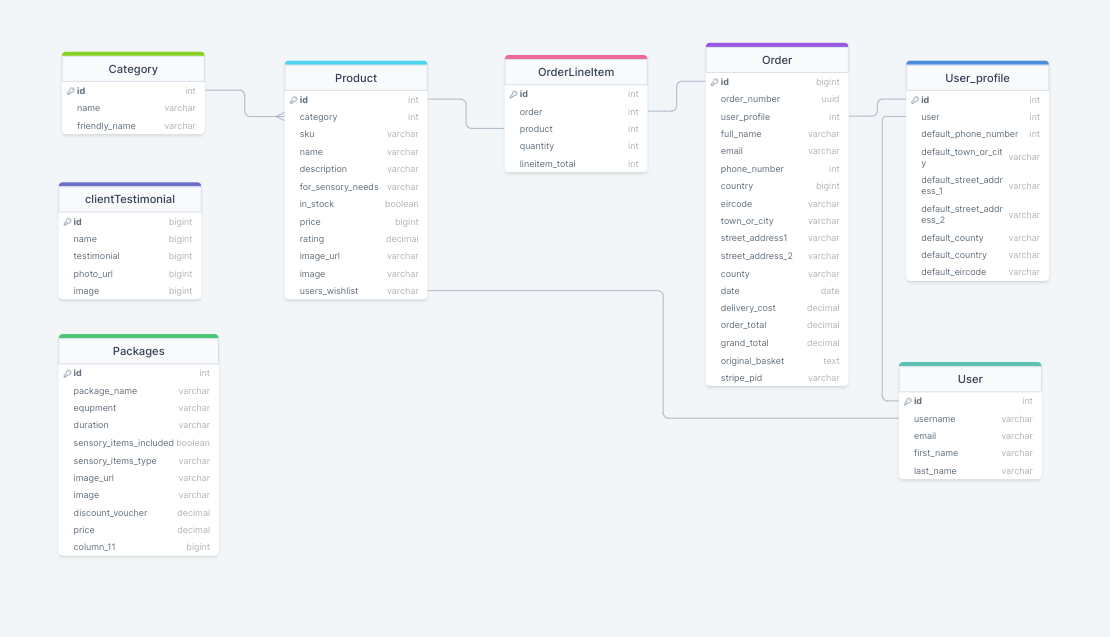
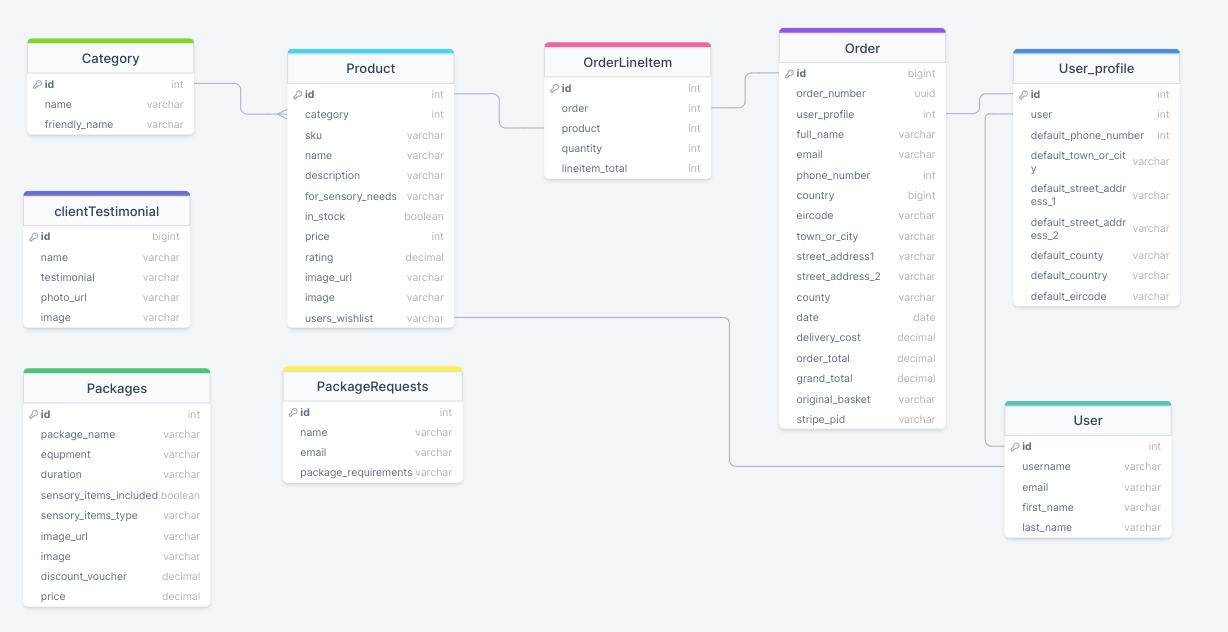
fix: Add superuser if condition to add product button in products template

diff --git a/profiles/templates/profiles/profile.html b/profiles/templates/profiles/profile.html
@@ -15,7 +15,7 @@
                 <h1><i class="fa-solid fa-user"></i></h1>
                 <h2>My Profile</h2>
                 
-                <p class="yello"> Username: {{ user.username }}</p> 
+                <p> Username: {{ user.username }}</p> 
                 <hr class="section-rule">
             </div>
             

diff --git a/products/templates/products/products.html b/products/templates/products/products.html
@@ -183,10 +183,11 @@
         {% endif %}
     </div>
 </div>
-
+{% if request.user.is_superuser %}
 <div class="col-12 text-center my-3">
     <a class="sensical-button" href="{% url 'add_product' %}"><i class="fa-solid fa-circle-plus"></i> Add Product</a>
 </div>
+{% endif %}
 {% endblock content %}
 
 {% block postloadjs %}

diff --git a/hire/urls.py b/hire/urls.py
@@ -2,5 +2,5 @@ from django.urls import path
 from . import views
 
 urlpatterns = [
-    path('hire', views.hire, name='hire')
+    path('', views.hire, name='hire')
 ]

diff --git a/docs/AGILE.md b/docs/AGILE.md
@@ -405,9 +405,11 @@ The final Sprint of the Project cleared the project management board of outstand
 
 * [Bug! Cache error preventing page load if store owner deletes item and an instance is in the basket.](https://github.com/davidcalikes/sensical.ie/issues/46)
 
-* [Start a Django app called 'packages' and add to installed apps in settings](https://github.com/davidcalikes/sensical.ie/issues/54)
+* [Start a Django app called 'packages' and add to installed apps in settings.](https://github.com/davidcalikes/sensical.ie/issues/54)
 
 * [User Story: Create MVC for Packages app, wire up URLS and add form functionality.](https://github.com/davidcalikes/sensical.ie/issues/55)
+
+* [User Story: Create MVC to read/add/delete Custom Package Requests, wire up URLS and add form functionality.](https://github.com/davidcalikes/sensical.ie/issues/56)
 
 <br>
 

diff --git a/docs/README.md b/docs/README.md
@@ -304,6 +304,8 @@ holistic therapies.
 
 * As a Hiring Customer User, I want to access information about the 'Mobile Sensory Environments Service.
 
+* As a Hiring Customer user, I want to request custom hiring packages to match my specific needs.
+
 <br>
 
 #### __User Stories Site Owner__:
@@ -316,6 +318,7 @@ holistic therapies.
 
 * As a Site owner I want to promote my site via social media and Search engine optimisation. 
 
+* As a Site Owner, I want to view and remove custom package requests in order to provide a quote for hiring customers and organise them.
 <br>
 
 ## Objectives of Sensical.ie
